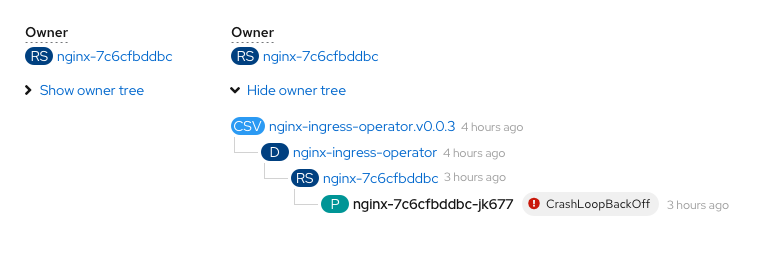
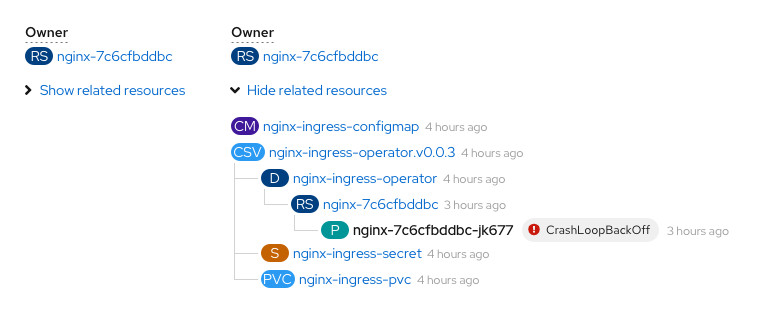
Updating based on stakeholder feedback

diff --git a/designs/administrator/future-openshift/resource-relationships/index.md b/designs/administrator/future-openshift/resource-relationships/index.md
@@ -5,9 +5,9 @@ version: 4.x
 
 # Resource relationships
 
-On resource details pages, add an expandable tree to show related resources under the `Owner` field. This could apply to any resource with an `ownerRef` field in its YAML, but would also be useful for Nodes/Hosts/Machines/MachineConfigs based on whichever fields they use to tie themselves together.
+On resource details pages, add an expandable tree to show related resources. For some resources this will be under the `Owner` field.
 
-The tree should be linear and only show resources that go up the tree (i.e., owner references). The tree will only show on a subset of resources’ details pages including:
+Only show resources that go up the tree from the resource whose details the user is viewing. The tree will only show on a subset of resources’ details pages including:
 * Deployments
 * Replica Sets
 * Stateful Sets
@@ -20,10 +20,12 @@ CSVs can be a part of the tree, but the tree will not be shown on the CSV's deta
 
 ## Design
 
-In an expandable component, show the owner tree with each child resource indented below its owner. Where applicable, show the resource's status badge next to the resource name as well as the date created. The resource whose Details page the user is on should not be a link and should be bolded.
+In an expandable component, show the owner tree with each child resource indented below its owner and connected with a grey line. Where applicable, show the resource's status badge next to the resource name as well as the date created. The resource whose Details page the user is on should not be a link and should be bolded.
 
-Example
+Example  
 ![one](img/example1.png)
+
+Note that some resources in the tree may not be owned by the same top-level resource, in this case the CSV. The Config Map doesn't have an owner but is still related to these set of resources and thus is shown at the top. The Secret and PVC are owned by the same top-level resource, the CSV, and appear connected to the tree with grey lines.
 
 Example in context
 ![two](img/example2.png)
